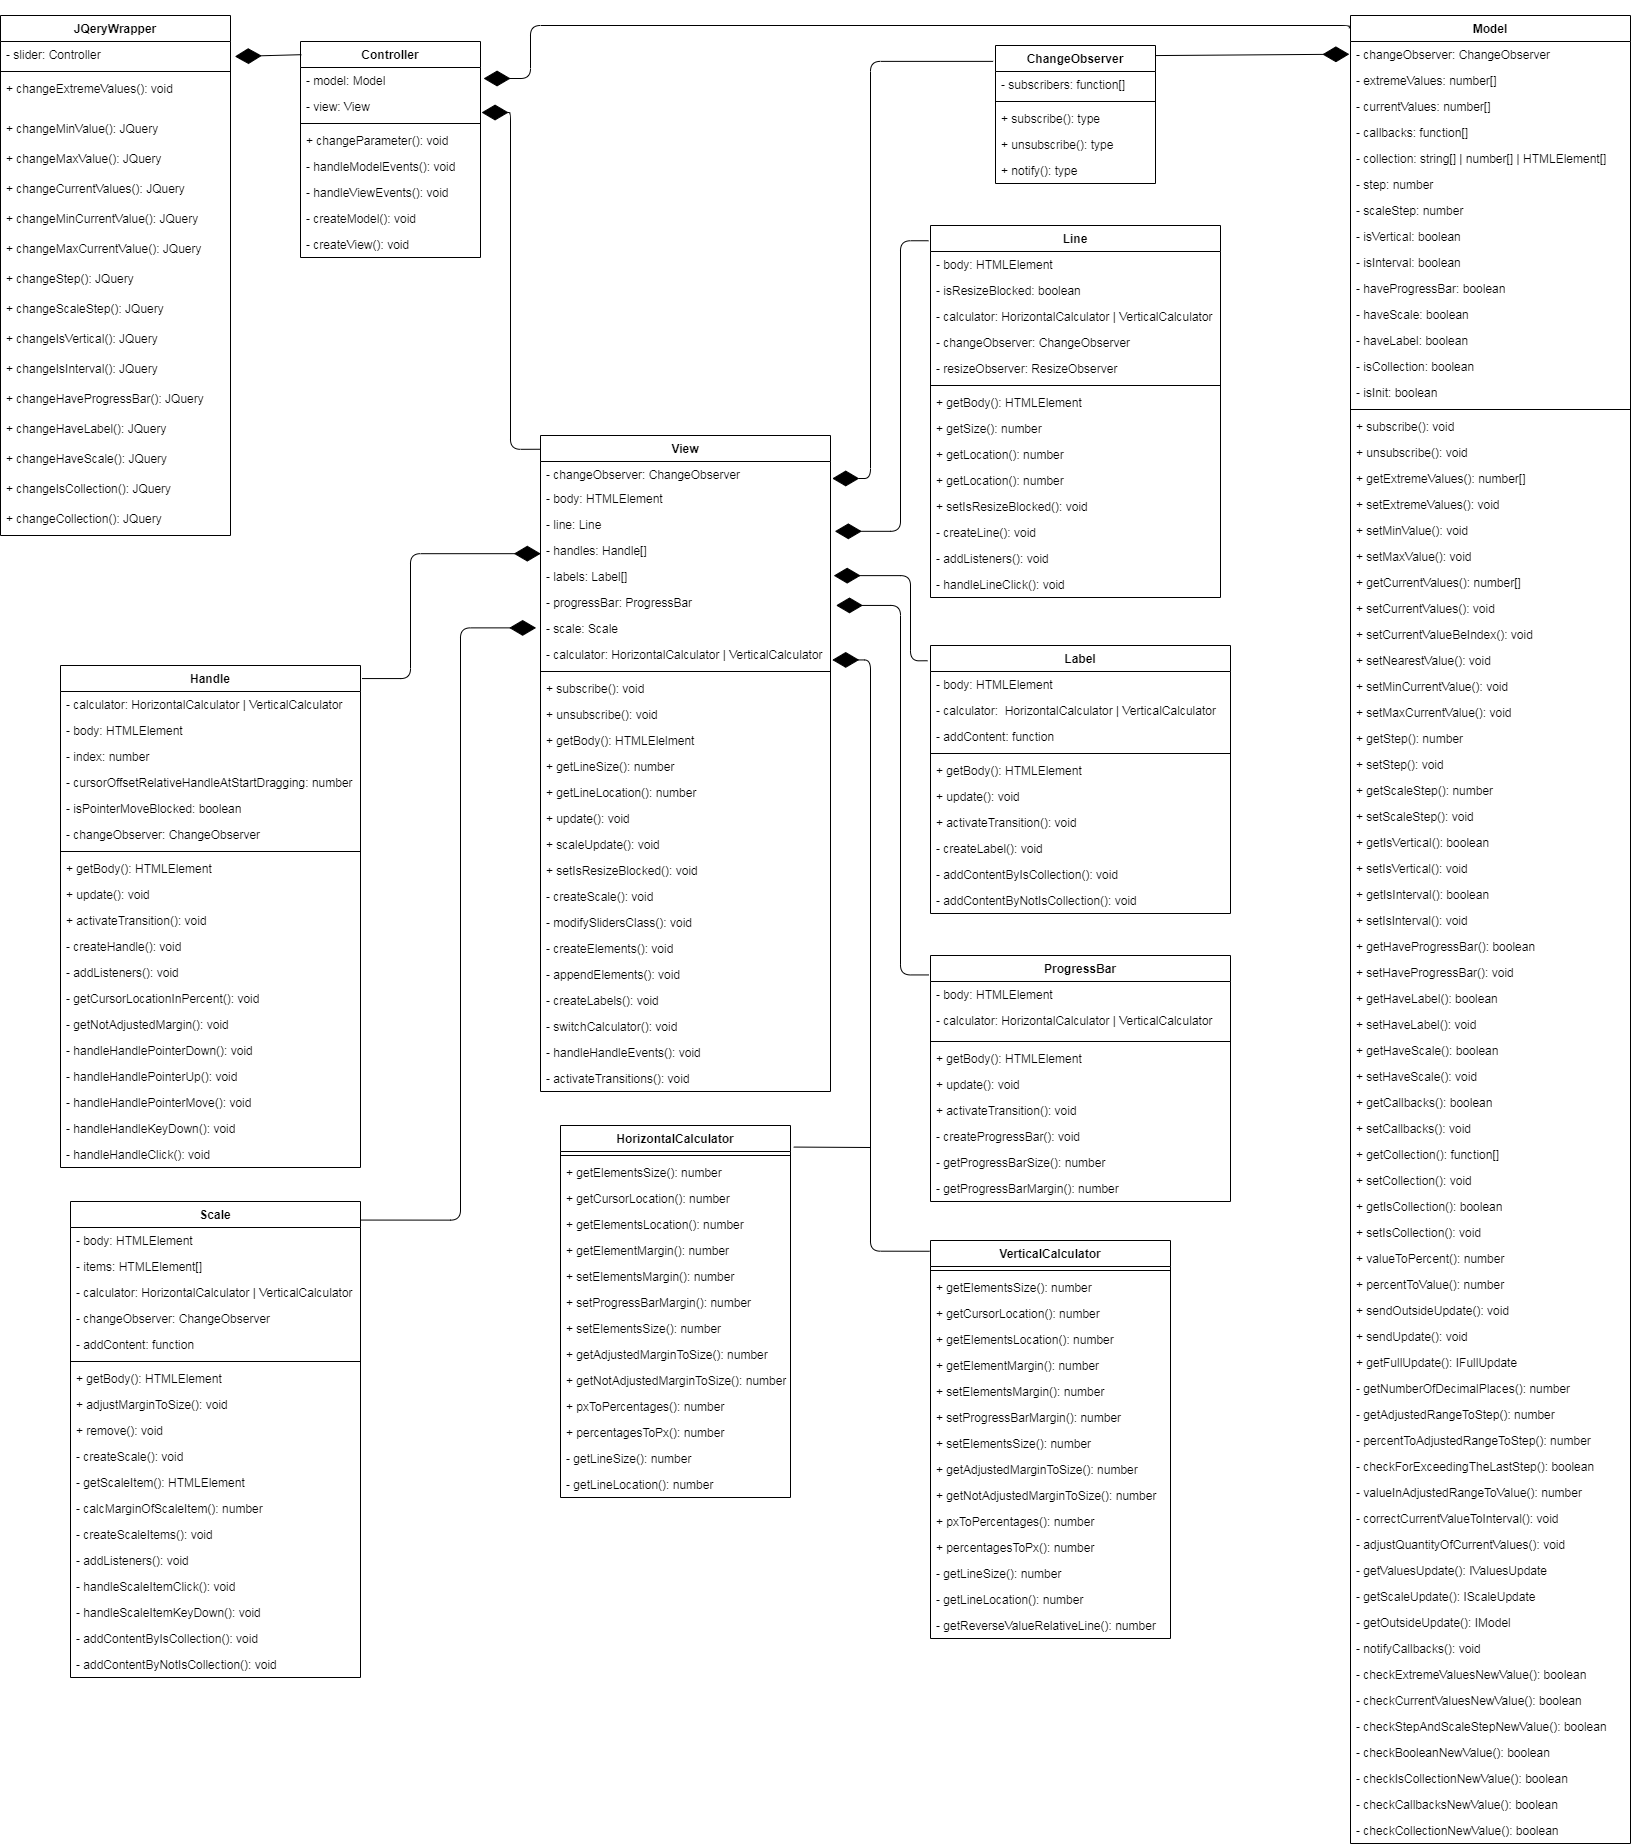
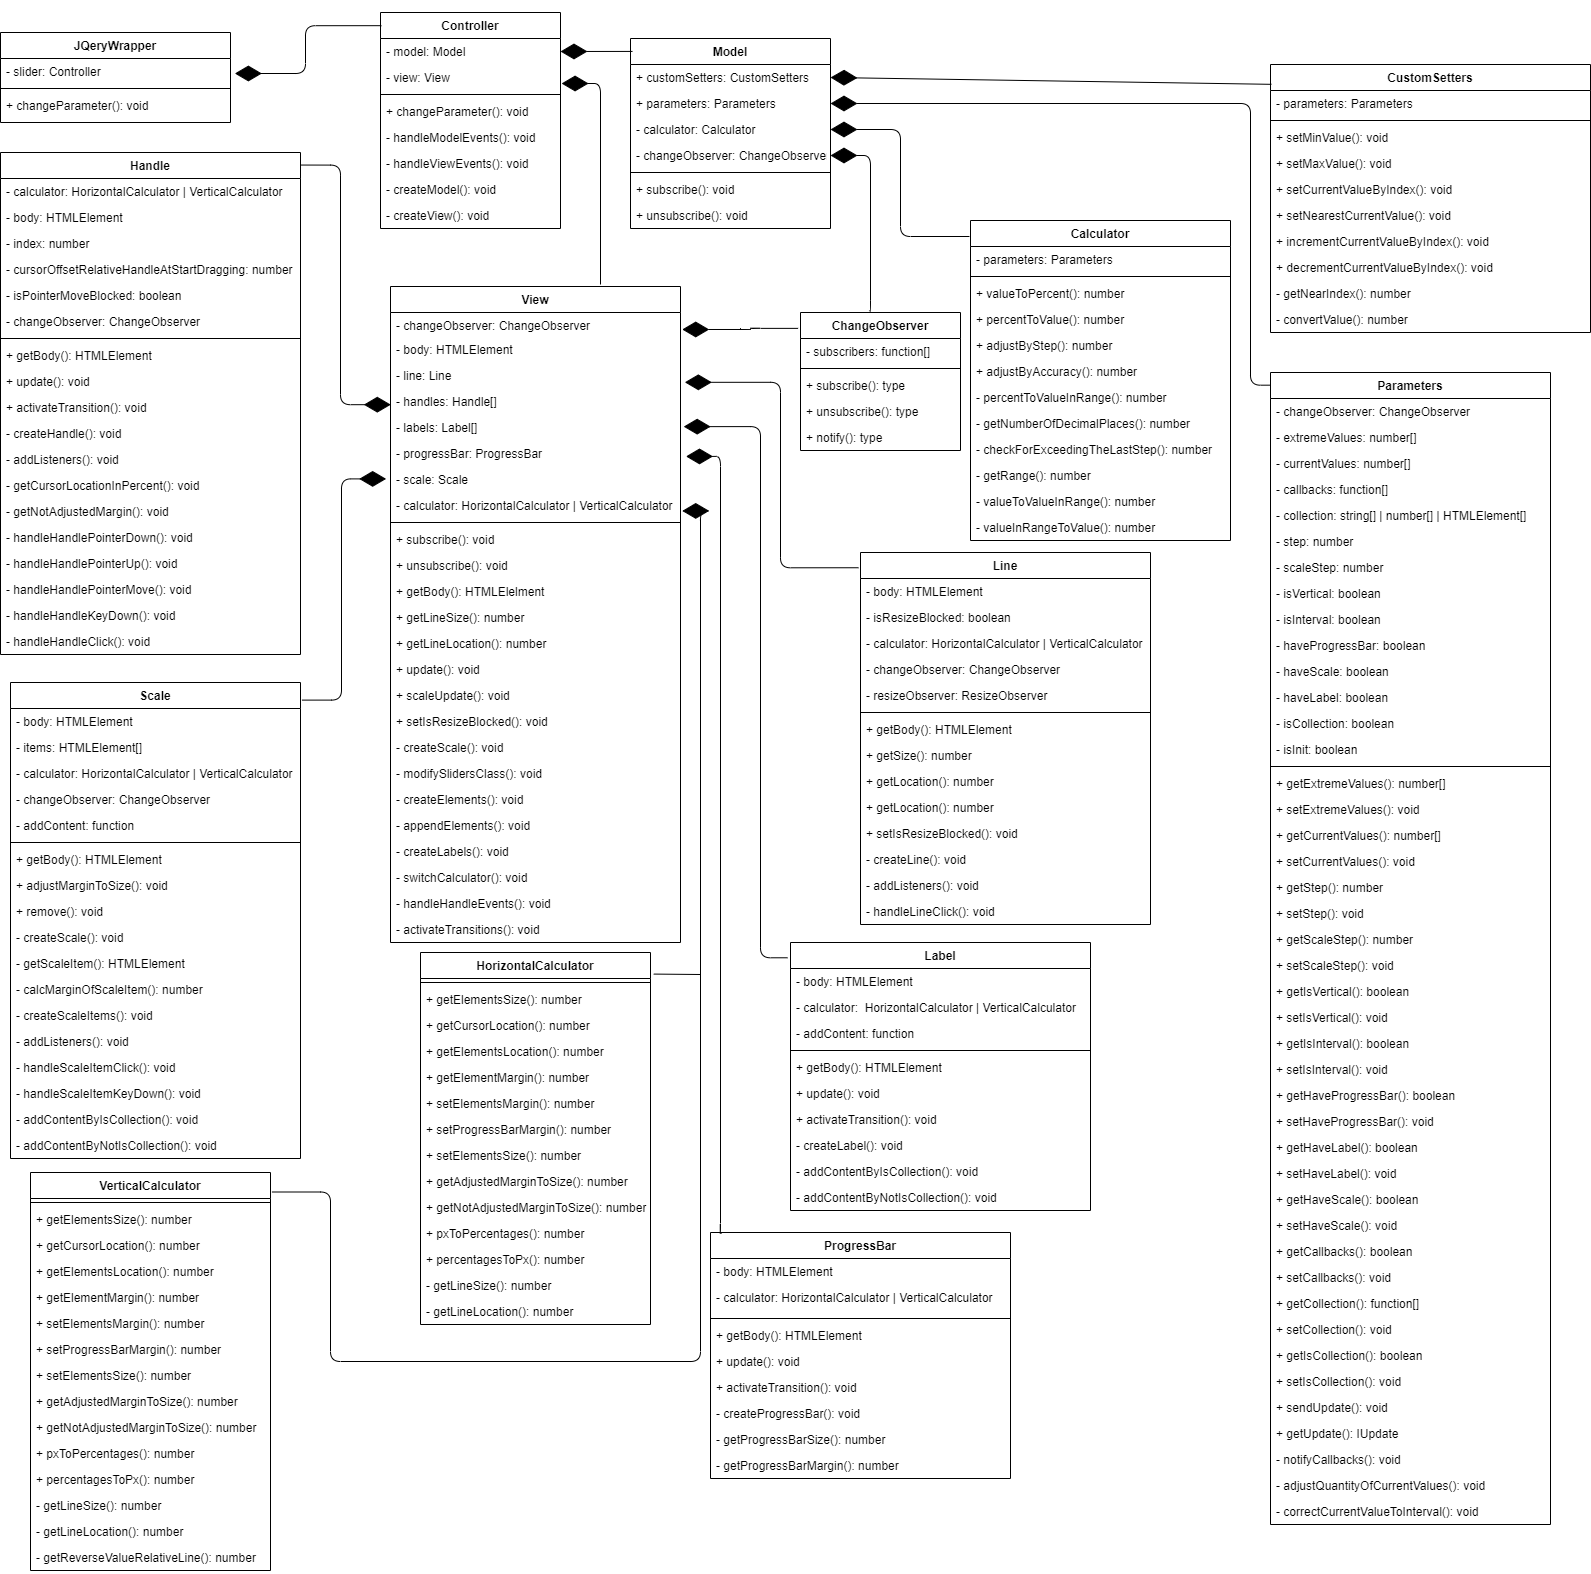
changed readme and uml

diff --git a/README.md b/README.md
@@ -1,5 +1,5 @@
 # Light range slider
-JQuery плагин реализующий функционал бегунка. Примеры использвания представлены на [demo](https://rizarid.github.io/light-range-slider/) странице.
+JQuery плагин реализующий функционал бегунка. Примеры использвания представлены на [DEMO](https://rizarid.github.io/light-range-slider/) странице.
 
 ## Архитектура проекта
 
